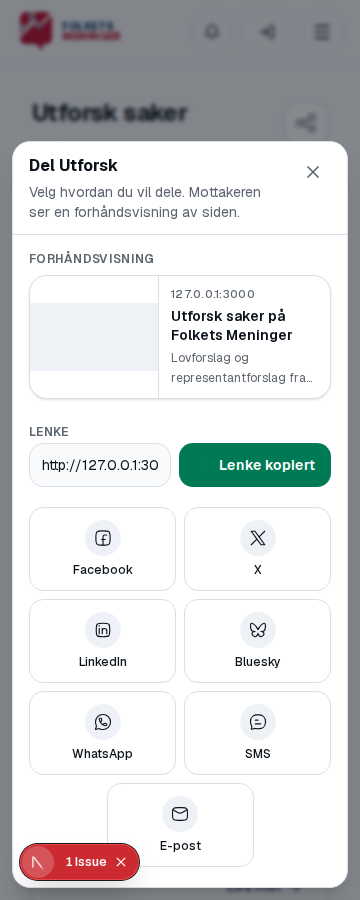
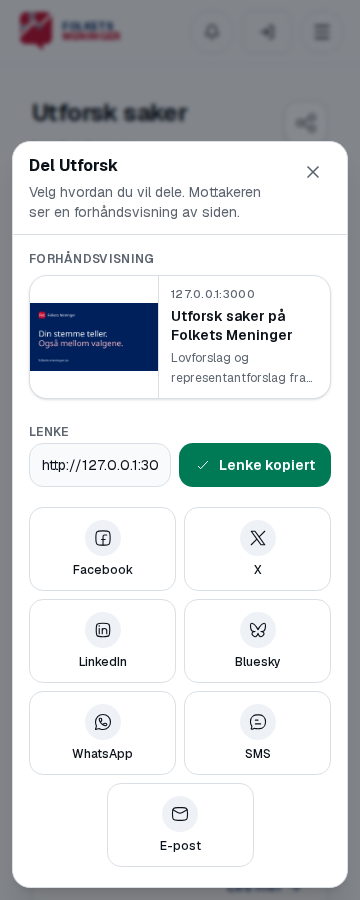
Pixel #260: kopiert-hake, sentrert 8-kol grid, skjermbilder
Fjern wait-gap på kopier-ikon, bruk sm:grid-cols-8 for 4+3, VURDER_FOCUS_RING
på lenkefelt, og forbedret capture-script (preview, 600 ms, skjul dev-overlay).

Changed region(s): [[0.0611, 0.3111, 0.4583, 0.4356], [0.0306, 0.9333, 0.3972, 0.9956], [0.6111, 0.4978, 0.8861, 0.5289]]

diff --git a/components/share/share-dialog.tsx b/components/share/share-dialog.tsx
@@ -186,7 +186,10 @@ export function ShareDialog({
               readOnly
               value={displayUrl}
               onFocus={(event) => event.currentTarget.select()}
-              className="min-h-11 min-w-0 flex-1 rounded-xl border border-border bg-muted/40 px-3 text-sm text-foreground focus-visible:outline-none focus-visible:ring-2 focus-visible:ring-brand"
+              className={cn(
+                'min-h-11 min-w-0 flex-1 rounded-xl border border-border bg-muted/40 px-3 text-sm text-foreground',
+                VURDER_FOCUS_RING,
+              )}
             />
             <button
               type="button"
@@ -199,10 +202,14 @@ export function ShareDialog({
                   : 'bg-brand text-brand-foreground hover:bg-brand/90',
               )}
             >
-              <AnimatePresence mode="wait" initial={false}>
+              <AnimatePresence initial={false}>
                 <motion.span
                   key={copied ? 'copied' : 'copy'}
-                  initial={reducedMotion ? false : { scale: 0.6, opacity: 0, rotate: -20 }}
+                  initial={
+                    reducedMotion || copied
+                      ? false
+                      : { scale: 0.6, opacity: 0, rotate: -20 }
+                  }
                   animate={{ scale: 1, opacity: 1, rotate: 0 }}
                   exit={reducedMotion ? undefined : { scale: 0.6, opacity: 0 }}
                   transition={{ type: 'spring', stiffness: 520, damping: 26 }}
@@ -241,7 +248,7 @@ export function ShareDialog({
         ) : null}
 
         <ul
-          className="grid grid-cols-2 gap-2 sm:grid-cols-4 sm:justify-items-stretch sm:[&>li:nth-child(5):nth-last-child(3)]:col-start-2"
+          className="grid grid-cols-2 gap-2 sm:grid-cols-8 sm:justify-items-stretch"
           aria-label="Del til"
         >
           {SHARE_TARGETS.map((target, index) => {
@@ -251,7 +258,9 @@ export function ShareDialog({
               <motion.li
                 key={target}
                 className={cn(
-                  isOrphanMobile && 'col-span-2 sm:col-span-1',
+                  'sm:col-span-2',
+                  index === 4 && 'sm:col-start-2',
+                  isOrphanMobile && 'col-span-2 sm:col-span-2',
                   isOrphanMobile && 'flex justify-center sm:block',
                 )}
                 initial={reducedMotion ? false : { opacity: 0, y: 6 }}
